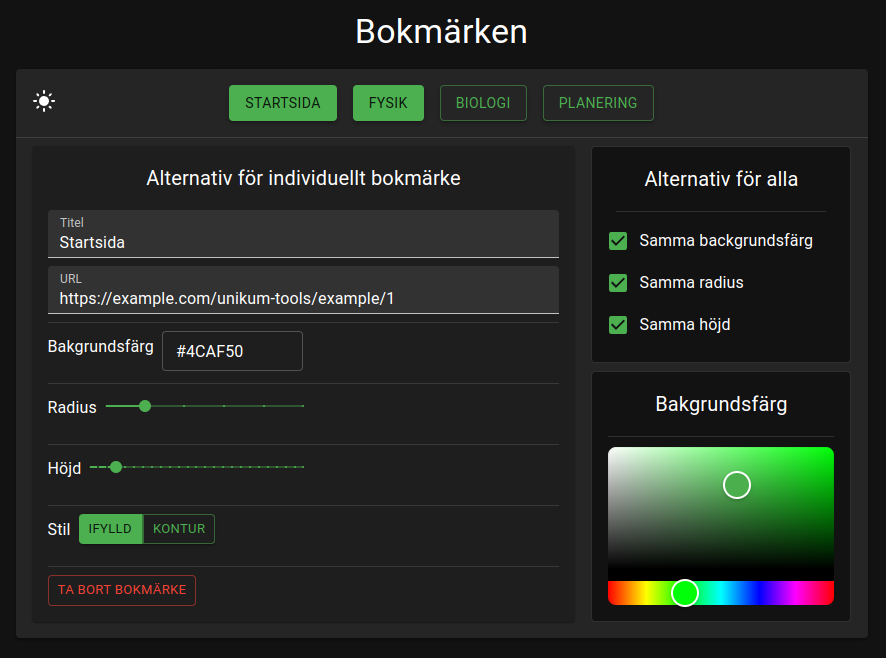
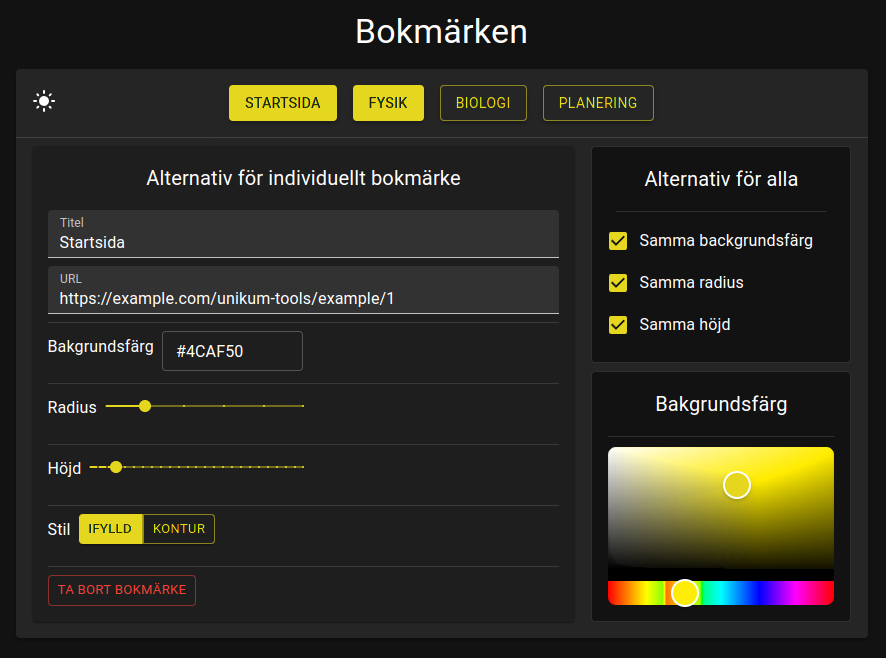
Updaterade till gul temafärg

diff --git a/src/pages/popup/CreateButton.tsx b/src/pages/popup/CreateButton.tsx
@@ -46,7 +46,7 @@ const CreateButton = ({ setPage }: CreateButtonProps) => {
             bgColor:
               result.bookmarks && result.bookmarks.length !== 0
                 ? result.bookmarks[result.bookmarks.length - 1].bgColor
-                : "#4caf50",
+                : "#ffeb3b",
             radius:
               result.bookmarks && result.bookmarks.length !== 0
                 ? result.bookmarks[result.bookmarks.length - 1].borderRadius

diff --git a/src/pages/options/index.tsx b/src/pages/options/index.tsx
@@ -3,13 +3,13 @@ import Options from "./Options";
 import "./index.css";
 import { ThemeProvider, createTheme } from "@mui/material/styles";
 import CssBaseline from "@mui/material/CssBaseline";
-import { green } from "@mui/material/colors";
+import { yellow } from "@mui/material/colors";
 
 const darkTheme = createTheme({
   palette: {
     mode: "dark",
     primary: {
-      main: green[500],
+      main: yellow[500],
     },
   },
 });

diff --git a/src/pages/popup/index.tsx b/src/pages/popup/index.tsx
@@ -3,13 +3,13 @@ import "./index.css";
 import Popup from "./Popup";
 import CssBaseline from "@mui/material/CssBaseline";
 import { ThemeProvider, createTheme } from "@mui/material/styles";
-import { green } from "@mui/material/colors";
+import { yellow } from "@mui/material/colors";
 
 const theme = createTheme({
   palette: {
     mode: "dark",
     primary: {
-      main: green[500],
+      main: yellow[500],
     },
   },
 });
